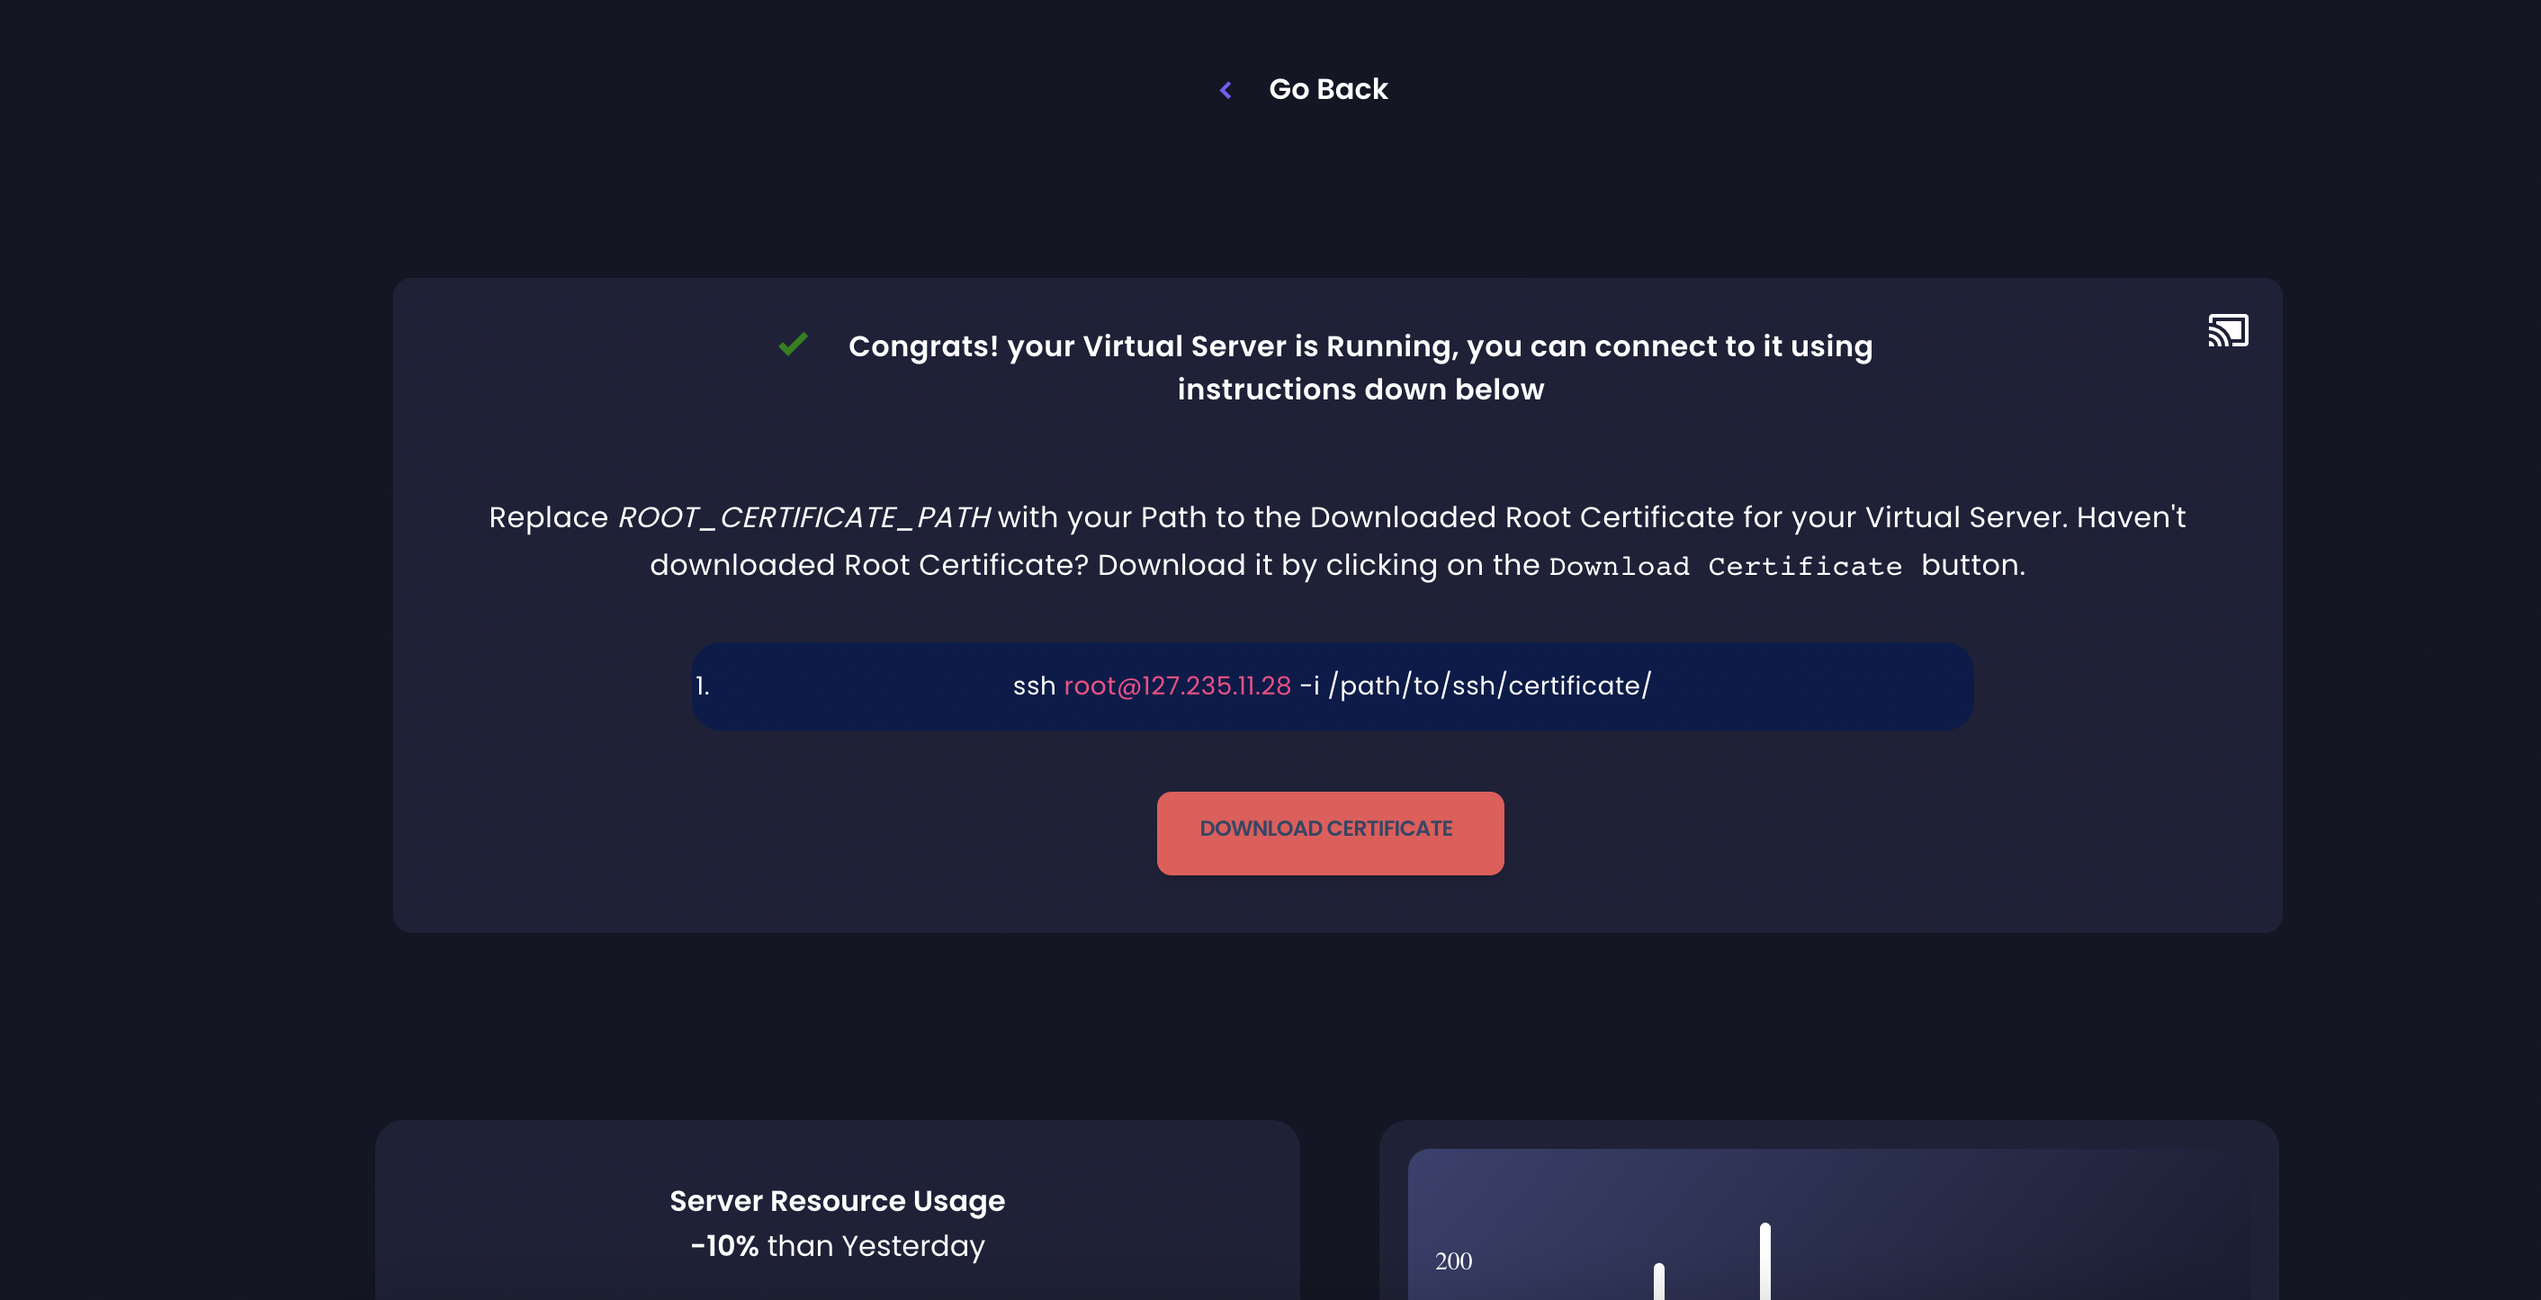
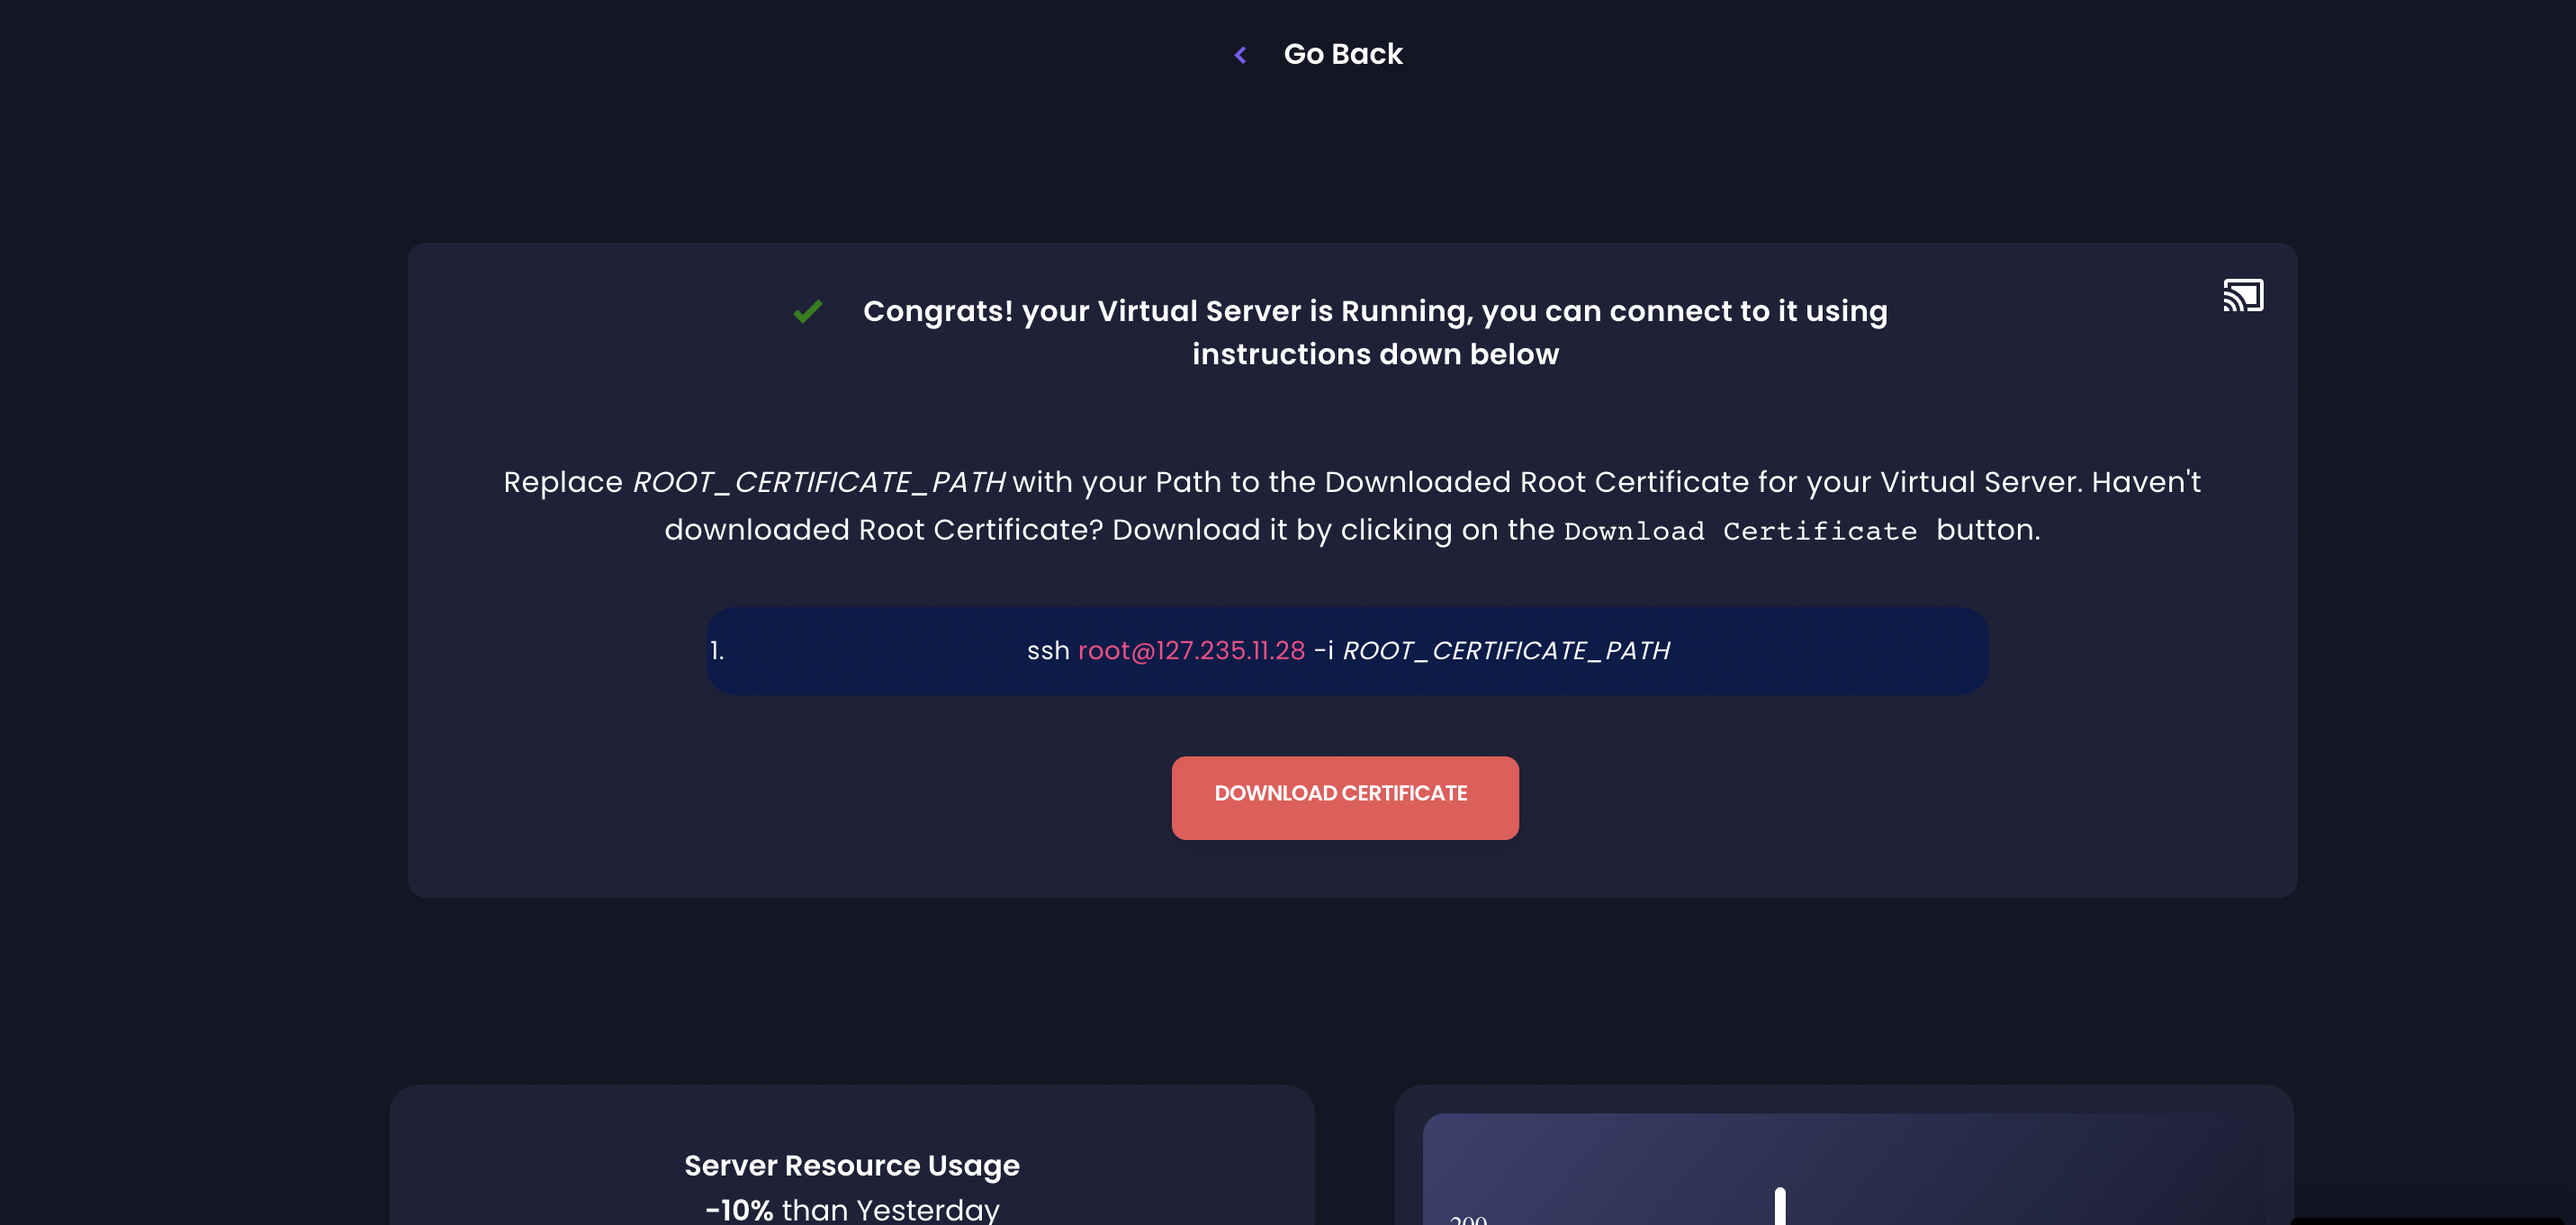
Updated SSH Connection Window, Updated Documentation

diff --git a/src/components/ConnectionInfo.vue b/src/components/ConnectionInfo.vue
@@ -139,38 +139,51 @@
              </pre>
         </div>
 
+        <p v-if="DownloadFailure == true" style="margin-top: 20px; margin-bottom: 30px; color: red; ">{{ DownloadFailureError }}</p>
+
         <button  @click="DownloadSshCertificateFile()"  class="btn btn-upload-certificate" style="margin-top: 20px; color: #fff; !important" v-if="VirtualMachine.Running === true">
-        <a download v-if="VirtualMachine.Ssh.byRootCertificate === true "><label style="color: #fff !important;">Download Certificate</label></a>
+        <a download v-if="VirtualMachine.Ssh.byRootCertificate === true "><label id="downloadLabel" style="color: #fff !important;">Download Certificate</label></a>
         </button>
 
         </v-card-text>
 
         </div>
     </v-expand-transition>
+
 </div>
 </template>
 
 
 <script>
 
-import * as ssh from "../../ssh/ssh.js"
+
+import * as ssh from "../../ssh/ssh.js";
 
 export default {
     name: "VirtualMachineConnectionInfo",
     props: ["VirtualMachine"],
     data() {
         return {
+            DownloadFailure: false,
+            DownloadFailureError: null, 
             showConnectionInfoDocs: false,
         }
     },
     methods: {
        DownloadSshCertificateFile() {
 
-           // Obtaining the Content of the SSH Certificate for the Virtual Machine Server 
+           // Obtaining the Content of the SSH Certificate for the Virtual Machine Server
+
+            let SshKeyPath = "/path/to/cert/"
+            // Initializing SSH Manager For the Virtual Server 
             let sshContentManager = new ssh.VirtualMachineSshManager()
-            let CertificateContent = sshContentManager.GetSshCertificate(this.JwtToken, this.VirtualMachine.VirtualMachineId)
+            let CertificateContent = sshContentManager.GetSshCertificate(this.JwtToken, SshKeyPath, this.VirtualMachine.VirtualMachineId)
+            if (CertificateContent == null) {
+            this.DownloadFailure = true; this.DownloadFailureError = "Failed To Download SSL Certificate, please try again later";
+            document.getElementById("downloadLabel").innerHTML = "Failed"}else{
 
             // Downloading the File with SSH Content from the Browser 
+
             let filename = "customer_avatar"
             var element = document.createElement('a');
             element.setAttribute('href', 'data:application/x-x509-ca-cert;charset=utf-8,' + encodeURIComponent(CertificateContent));
@@ -181,9 +194,13 @@ export default {
             // Imittating the Clicking and downloading the file 
             element.click();
             document.body.removeChild(element);
+
+            }
        },
+    }
 }
-}
+
+
 
 </script>
 

diff --git a/rest/ssh.js b/rest/ssh.js
@@ -1,17 +1,19 @@
-var BACKEND_APPLICATION_HOST = process.env.BACKEND_APPLICATION_HOST
-var BACKEND_APPLICATION_PORT = process.env.BACKEND_APPLICATION_PORT
+var BACKEND_APPLICATION_HOST = process.env.BACKEND_APPLICATION_HOST || "localhost"
+var BACKEND_APPLICATION_PORT = process.env.BACKEND_APPLICATION_PORT || "8000"
 
 /* eslint-disable no-unused-vars */
 
-var Url = require('url-parse');
-
 function DownloadSshKeyRestController(JwtToken, SshKeyPath, VirtualMachineId) {
   // Downloads SSH Public Key File to the Customer's Desktop, if the Virtual Machine has One
-  var APIUrl = new URL("http://%s:%s/download/ssh/key" % BACKEND_APPLICATION_HOST, BACKEND_APPLICATION_PORT)
+  var APIUrl = new URL(`http://${BACKEND_APPLICATION_HOST}:${BACKEND_APPLICATION_PORT}/download/ssh/key/`)
+  APIUrl.searchParams.append("VirtualMachineId", VirtualMachineId)
+  APIUrl.searchParams.append("SshKeyPath", SshKeyPath)
+  
   let Response, ResponseError = global.jQuery.ajax({
     url: APIUrl, 
     type: "GET", 
     headers: {
+      "Access-Control-Allow-Credentials": true,
       "Access-Control-Allow-Origin": "*",
       "Authorization": JwtToken,
     },
@@ -28,6 +30,4 @@ function DownloadSshKeyRestController(JwtToken, SshKeyPath, VirtualMachineId) {
   return Response, ResponseError
 }
 
-export {RemoveSshKeyRestController,
-UpdateSshKeyRestController,
-DownloadSshKeyRestController}
+export {DownloadSshKeyRestController}

diff --git a/ssh/ssh.js b/ssh/ssh.js
@@ -3,7 +3,7 @@ import * as ssh_rest from "../rest/ssh.js"
 
 class VirtualMachineSshManager {
   // Manager Class, for managing the SSH of the Virtual Machine Server 
-  GetSshCertificate(JwtToken, VirtualMachineId) {
+  GetSshCertificate(JwtToken, SshKeyPath, VirtualMachineId) {
     // Returns the SSH Certificate Content for the Virtual Machine Server 
     let CertificateContent, ContentError = ssh_rest.DownloadSshKeyRestController(
     JwtToken, SshKeyPath, VirtualMachineId)
